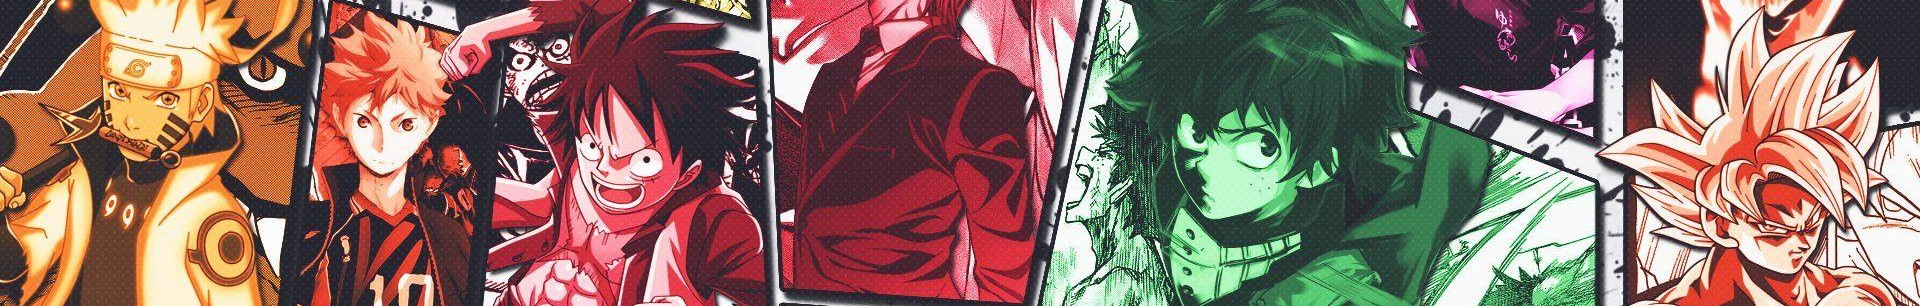
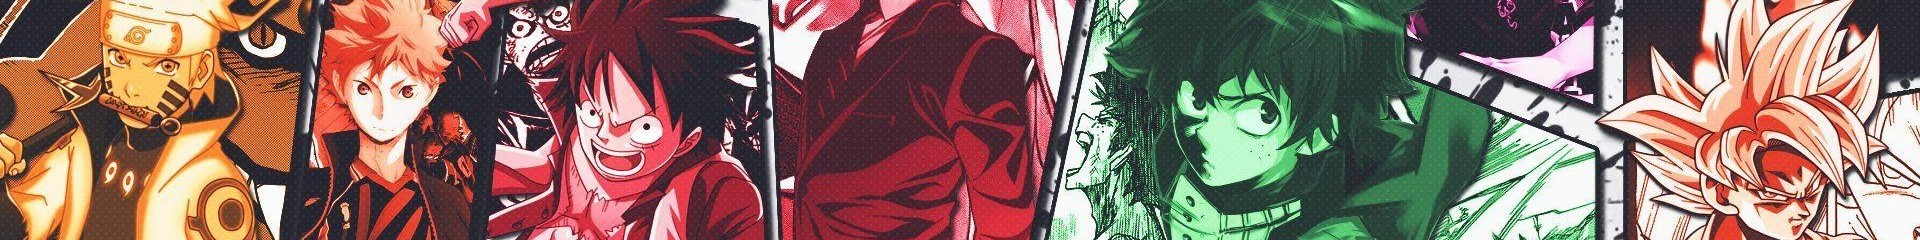
added more content and adjusted alignments

diff --git a/assets/css/style.css b/assets/css/style.css
@@ -5,64 +5,149 @@
   body {
     margin: 0;
     padding: 0;
-    font-family:'Gill Sans', 'Gill Sans MT', Calibri, 'Trebuchet MS', sans-serif;
+    font-size: 100%;
+    font-family: 'Poppins', sans-serif;
     line-height: 1.5;
-    background-color: rgb(248, 244, 239);
+    background-color: rgb(248, 194, 194);
     background-size: cover;
     background-position: top center;
     background-repeat: no-repeat;
   }
-  
+  /* layout for the main heading and navigation links */
   .header {
     display: flex;
     justify-content: space-between;
     font-family:'Gill Sans', 'Gill Sans MT', Calibri, 'Trebuchet MS', sans-serif;
-    background-color: rgba(252, 85, 121, 0.95);
+    background-color: rgb(250, 45, 45);
     color: #ffffff;
   }
+
   .header h1{
     display: inline-block;
-    padding-top: 15px;
+    padding-right: 1%;
     padding-left: 5%;
+    margin: 1%;
+    background-color: rgba(170, 0, 0, 0.8);
+    font-size: 2.5em;
+    text-decoration: underline;
   }
 
   .header nav {
     float: right;
     font-family: 'Gill Sans', 'Gill Sans MT', Calibri, 'Trebuchet MS', sans-serif;
     font-size: 25px;
-    padding-right: 5%;
+    padding-right: 2%;
   }
 
   .header nav ul{
-    list-style-type: none;
-  }
-
-  .header nav ul li{
-    display: inline-block;
+    display: grid;
+    grid-template-columns: 1fr 1fr 1fr;
+    list-style-type:none;
+    text-decoration: underline;
   }
 
   .header a{
-    text-decoration: none;
     color: #ffffff;
   }
 
+  /* layout for the secondary header - image strip */
   .hero-banner {
     display: flex;
-    justify-content: flex-end;
+    justify-content: right;
     align-items:center;
-    background-size: cover;
+    background-size: 100%;
     background-position: top center;
     background-repeat: no-repeat;
-    padding: 1%;
+    position: relative;
+  }
+
+  #banner-image{
+    opacity: 0.4;
+    margin-bottom: 1%;
   }
 
   .hero-banner h2{
+    font-size: 4em;
+    position: absolute;
+    bottom: 1%;
+    right: 1%;
+    opacity: 1;
+    text-decoration: underline;
+  }
+  /* the about me, work and contact section */
+  #my-photo {
+    float: left;
+    margin-left: 1%;
+    margin-bottom: 1%;
+    width: 8%;
+    height: 8%;
   }
 
   .page-section {
     display: flex;
   }
+  
+  #work{
+    margin: 0 5%;
+    display: grid;
+    grid-template-rows: 300px 300px 300px;
+    grid-template-columns: 1fr 1fr;
+    grid-template-areas: 
+    "portfolio-01 portfolio-01"
+    "portfolio-02 portfolio-03"
+    "portfolio-04 portfolio-05";
+  }
 
+  #portfolio-01{
+    grid-area: portfolio-01;
+    background-image: url("../images/02-portfolio-1.jpg");
+    
+  }
+
+  #portfolio-02{
+    grid-area: portfolio-02;
+    background-image: url("../images/02-portfolio-2.jpg");
+  }
+  #portfolio-03{
+    grid-area: portfolio-03;
+    background-image: url("../images/02-portfolio-3.jpg");
+  }
+  #portfolio-04{
+    grid-area: portfolio-04;
+    background-image: url("../images/02-portfolio-4.jpg");
+  }
+
+  #portfolio-05{
+    grid-area: portfolio-05;
+    background-image: url("../images/GardenArchGate.jpg");
+  }
+
+  .work-links{
+    background-position: center;
+    background-size: cover;
+    background-repeat: no-repeat;
+    margin: 1%;
+    align-content: end;
+    display: grid;
+    cursor: pointer;
+  }
+
+  .heading{
+    padding: 5px;
+    height: 10px;
+    color: black;
+    font-size: 15px;
+    text-decoration: none;
+  }
+
+  #contact ul{
+    width: 100%;
+    display: inline-flex;
+    list-style-type: none;
+    text-align: center;
+    justify-content: space-evenly;
+    padding-right: 10%;
+  }
 
   h1,
   h2,
@@ -75,4 +160,15 @@
   
   p {
     margin: 0;
+    padding-top: 1.5%;
+  }
+
+  #about p{
+    margin-left: 1%;
+  }
+
+  .footer h3{
+    margin: auto;
+    justify-content: center;
+    text-align: center;
   }

diff --git a/index.html b/index.html
@@ -5,12 +5,12 @@
     <meta http-equiv="X-UA-Compatible" content="IE=edge">
     <meta name="viewport" content="width=device-width, initial-scale=1.0">
     <link rel="stylesheet" href="assets/css/style.css">
-    <title>Portfolio</title>
+    <title>Leanne Annable: Portfolio</title>
 </head>
 <body>
     <!-- name and navigation section -->
     <header class="header">
-        <h1>Leanne Annable: Portfolio</h1>
+        <h1>Leanne Annable: Junior Coder Portfolio</h1>
         <nav>
           <ul>
             <li>
@@ -31,7 +31,7 @@
       <div>
         <h2>Welcome to my portfolio!</h2>
       </div>
-      <img src="./assets/images/anime-mashup-cut.jpg" alt="a selection of anime characters">
+      <img id="banner-image" src="./assets/images/anime-mashup-cut.jpg" alt="a selection of anime characters">
     </section>
     
     <main class="page-wrapper">
@@ -39,32 +39,43 @@
       <section class="page-section" id="about">
         <h2>About Me</h2>
           <!-- add a photo or avatar of me -->
-          <img src="./assets/images/me.jpg" alt="a picture of Leanne">
+          <img id="my-photo" src="./assets/images/me.jpg" alt="a picture of Leanne">
         <p>
           <!-- This is where I will write some information about myself -->
-          Hi there! My name is Leanne, I'm learning to be a junior coder and have basic knowledge of
-          Python which I learned through some Udemy courses. I am currently enrolled on a front-end course.
+          Hi there!<br>
+          My name is Leanne and I'm learning to be a junior coder.<br>
+          I have basic knowledge of Python, which I learned through some Udemy courses.<br>
+          I am currently enrolled on a front-end bootcamp course.<br>
+          Keep checking back to see my updates and progress! 🐼
         </p>
       </section>
   
       <!-- portfolio container - where I can put all my work-->
       <section class="page-section" id="work">
         <h2>Work</h2>
-          <p>
-            <!-- This is where I will say a bit about my work style and link some work, for now it will be images as I have no active sites -->
-          </p>
-          <img src="./assets/images/02-portfolio-1.jpg" alt="a wall covered in LED lights">
-          <img src="./assets/images/02-portfolio-2.jpg" alt="a calculator app">
-          <img src="./assets/images/02-portfolio-3.jpg" alt="a pastel background with an image of a car">
-          <img src="./assets/images/02-portfolio-4.jpg" alt="surfers riding a wave">
+        <div id="portfolio-01" class="work-links">
+          <a href="/coming-soon.html" class="heading">LED Wall</a>
+        </div>
+        <div id="portfolio-02" class="work-links">
+          <a href="/coming-soon.html" class="heading">calculator</a>
+        </div>
+        <div id="portfolio-03" class="work-links">
+          <a href="/coming-soon.html" class="heading">Pastel Puzzles</a>
+        </div>
+        <div id="portfolio-04" class="work-links">
+          <a href="/coming-soon.html" class="heading">Surf Report</a>
+        </div> 
+        <div id="portfolio-05" class="work-links">
+          <a href="/coming-soon.html" class="heading">Fencing jobs</a>
+        </div> 
       </section>
   
       <!-- contact details -->
       <section class="page-section" id="contact">
         <h2>Contact Me</h2>
         <ul>
-          <li><strong>Email: <a href="mailto:l.annable@outlook.com">l.annable@outlook.com</a></strong></li>
-          <li><strong>Github: <a href="https://github.com/Leanne-Annable">Leanne-Annable</a></strong></li>
+          <li><strong>Email:<br> <a href="mailto:l.annable@outlook.com">l.annable@outlook.com</a></strong></li>
+          <li><strong>Github:<br> <a href="https://github.com/Leanne-Annable">Leanne-Annable</a></strong></li>
         </ul>
       </section>
     </main>

diff --git a/coming-soon.html b/coming-soon.html
@@ -1,0 +1,12 @@
+<!DOCTYPE html>
+<html lang="en">
+<head>
+    <meta charset="UTF-8">
+    <meta http-equiv="X-UA-Compatible" content="IE=edge">
+    <meta name="viewport" content="width=device-width, initial-scale=1.0">
+    <title>Coming soon!</title>
+</head>
+<body>
+    <h1>Coming soon!</h1>
+</body>
+</html>
